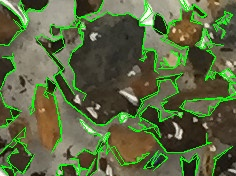
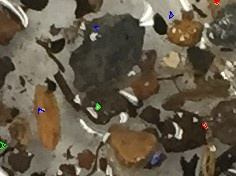
Week 5 code

diff --git a/charcoal-count/obj_count.py b/charcoal-count/obj_count.py
@@ -10,6 +10,7 @@ cwd = os.getcwd()
 binary_img = cv2.Canny(img, 100, 110)
 cv2.imwrite(cwd+'/canny_edge/IMG_4468_zoom_canny_edge.jpg', binary_img)
 
+px_mm = 1818/float(1400)
 
 #ret,thresh = cv2.threshold(binary_img,127,255,0)
 #_, contours, hierarchy = cv2.findContours(thresh,cv2.RETR_TREE,cv2.CHAIN_APPROX_SIMPLE)
@@ -114,8 +115,8 @@ for i in range(0, len(polyContours)):
     contour1 = polyContours[i]
     for j in range(0, len(polyContours)):
         contour2 = polyContours[j]
-        if i != j and (distance(contour1[0], contour2[0]) < 4 or distance(contour1[len(contour1)-1], contour2[0]) < 4
-         or distance(contour1[0], contour2[len(contour2)-1]) < 4 or distance(contour1[len(contour1)-1], contour2[len(contour2)-1]) < 4):
+        if i != j and (distance(contour1[0], contour2[0]) < 6 or distance(contour1[len(contour1)-1], contour2[0]) < 6
+         or distance(contour1[0], contour2[len(contour2)-1]) < 6 or distance(contour1[len(contour1)-1], contour2[len(contour2)-1]) < 6):
             if j not in alreadyMerged[i]:
                 mergedContours += [np.concatenate((contour1, contour2))]
                 alreadyMerged[i] += [j]
@@ -124,6 +125,7 @@ for i in range(0, len(polyContours)):
         mergedContours += [contour1]
 print "# of mergedContours:", len(mergedContours)
 
+#area = [cv2.contourArea(contour) for contour in mergedContours]
 area = [xy_area(contour) for contour in mergedContours]
 area_np = np.array(area)
 area_np = reject_outliers(area_np)
@@ -147,9 +149,16 @@ print "80% Bucket:",len([a for a in area_np if a >= max(area_np)*0.7  and a < ma
 print "90% Bucket:",len([a for a in area_np if a >= max(area_np)*0.8  and a < max(area_np)*0.9])
 print "100% Bucket:",len([a for a in area_np if a >= max(area_np)*0.9])
 
-mergedContours = [contour for contour in mergedContours if xy_area(contour) > median]
+#mergedContours = [contour for contour in mergedContours if xy_area(contour) > 1*3.14*px_mm and xy_area(contour) < 5*3.14*px_mm]
+#mergedContours = [contour for contour in mergedContours if cv2.contourArea(contour) > 1*px_mm and cv2.contourArea(contour) < 5*px_mm]
+mergedContours = [contour for contour in mergedContours if xy_area(contour) > 1*px_mm and xy_area(contour) < 25*px_mm]
+
 print "Final # of mergedContours:", len(mergedContours)
 
-cv2.drawContours(img, mergedContours, -1, (0,255,0), 1)
+for i in range(0, len(mergedContours)):
+    r = 255 if i % 3 == 0 else 0
+    g = 255 if i % 3 == 1 else 0
+    b = 255 if i % 3 == 2 else 0
+    cv2.drawContours(img, mergedContours, i, (r,g,b), 1)
 
 cv2.imwrite(cwd+'/contour_overlay/IMG_4465_zoom_contour.jpg', img)
